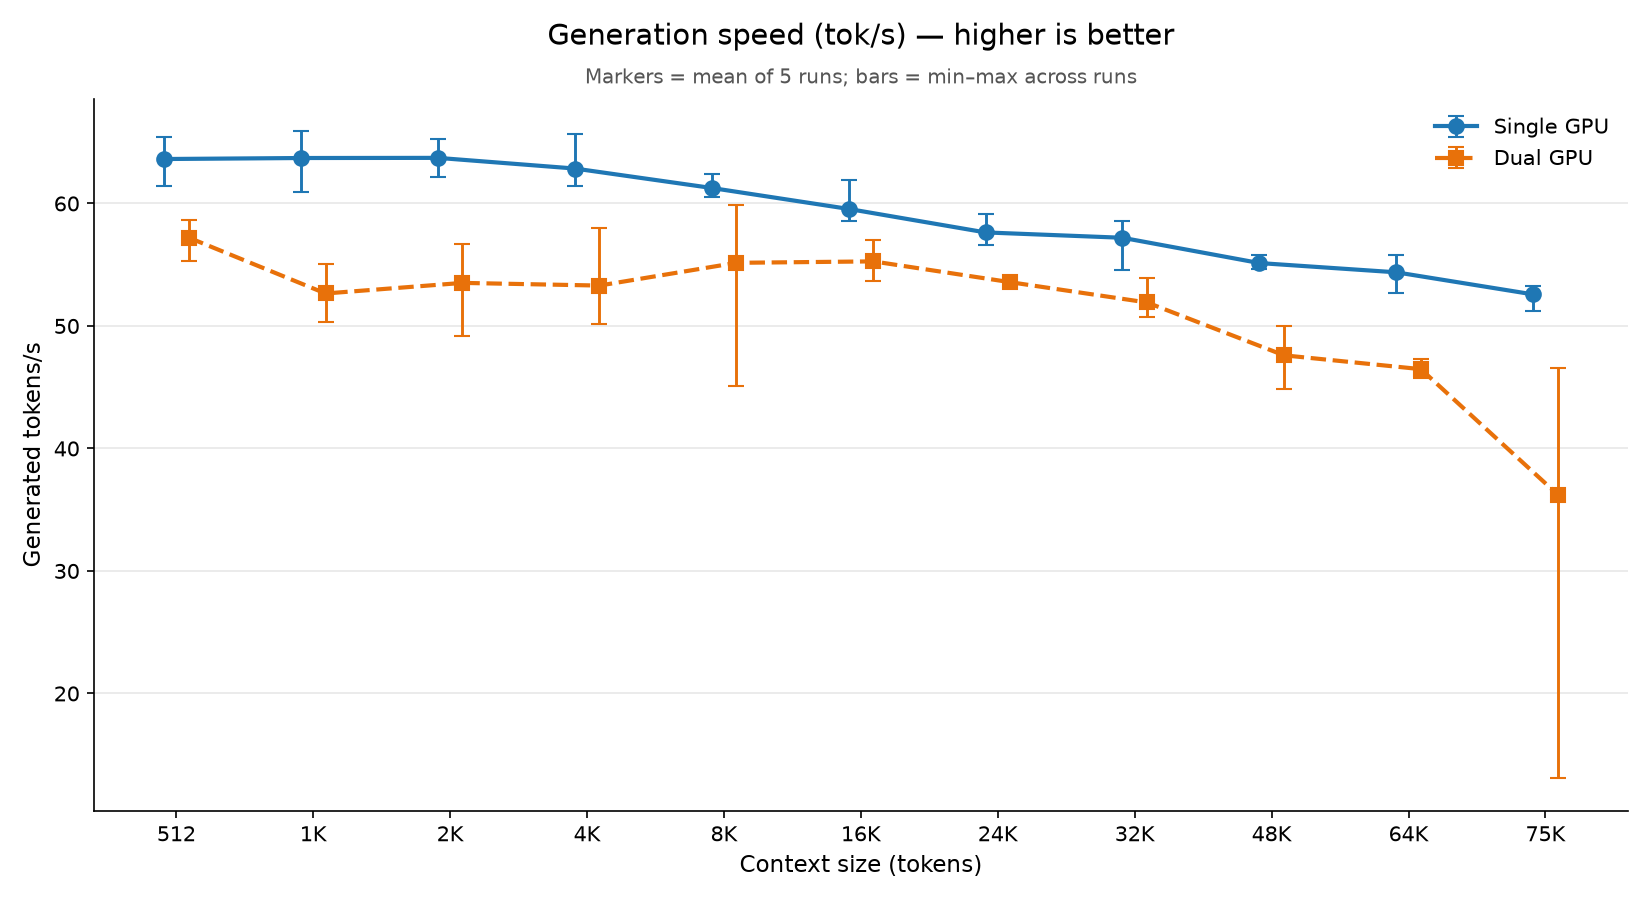
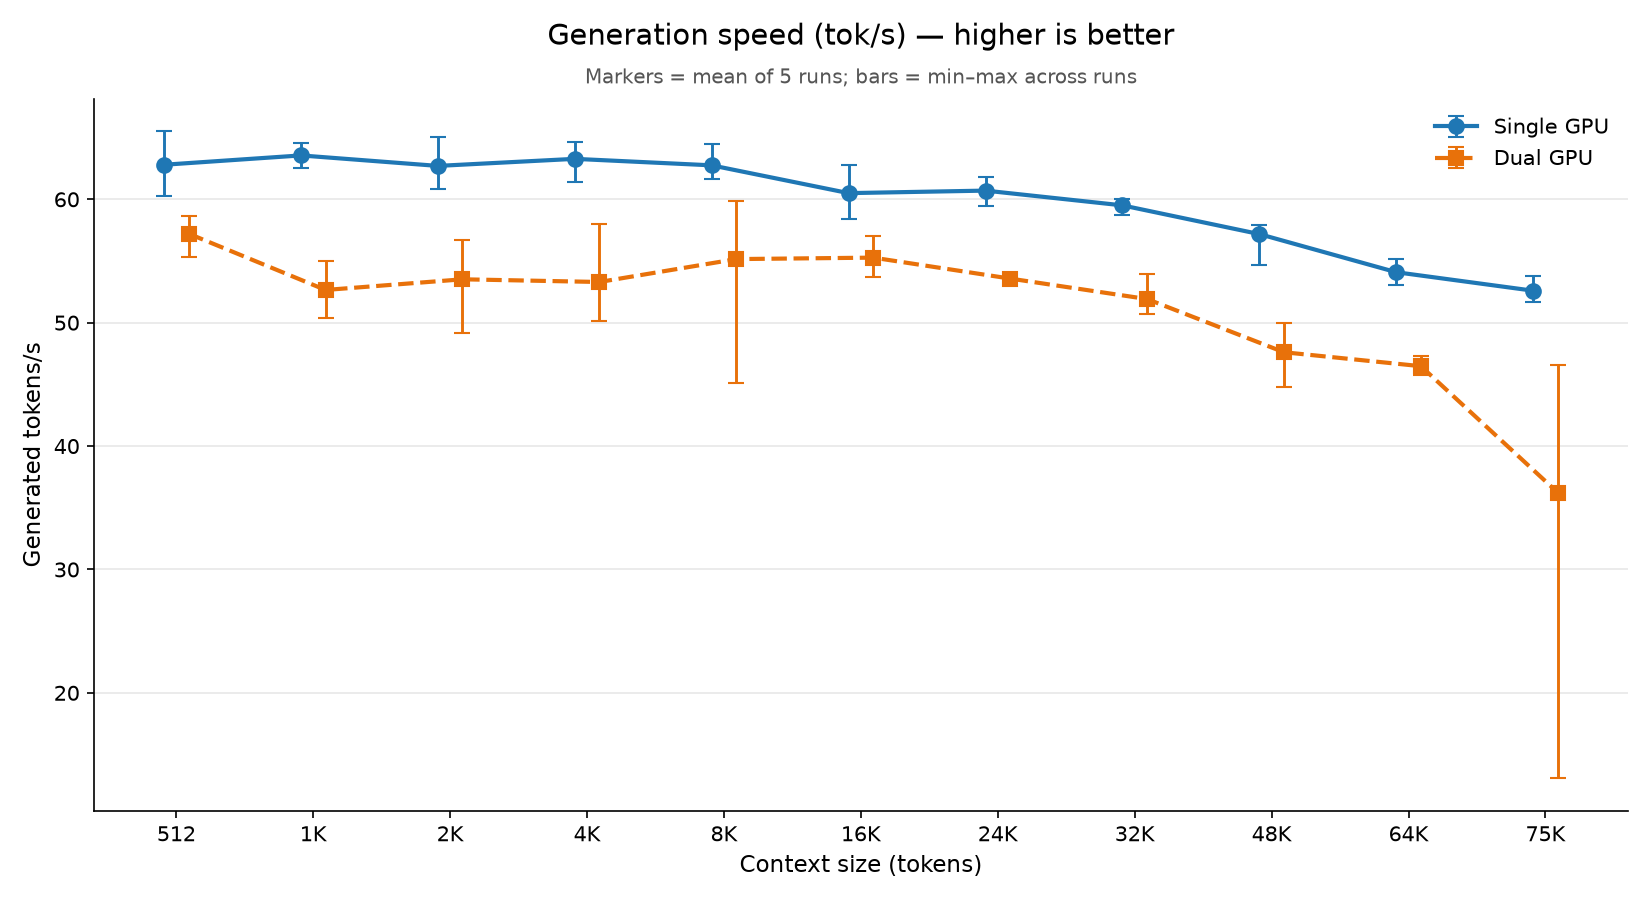
Update single benchmark: clean run, update table/findings/tips

diff --git a/README.md b/README.md
@@ -143,17 +143,17 @@ Single GPU is faster than dual-GPU over RPC at both prompt processing and genera
 
 | Context | Prompt tok/s single | dual | Change | Gen tok/s single | dual | Change |
 |---|---|---|---|---|---|---|
-| 512 | 1001 | 576 | −42% | 63.6 | 57.2 | −10% |
-| 1K | 1728 | 710 | −59% | 63.7 | 52.7 | −17% |
-| 2K | 2636 | 878 | −67% | 63.7 | 53.5 | −16% |
-| 4K | 2707 | 890 | −67% | 62.9 | 53.3 | −15% |
-| 8K | 2766 | 1064 | −62% | 61.3 | 55.2 | −10% |
-| 16K | 2728 | 975 | −64% | 59.6 | 55.3 | −7% |
-| 24K | 2611 | 905 | −65% | 57.6 | 53.6 | −7% |
-| 32K | 2554 | 813 | −68% | 57.2 | 51.9 | −9% |
-| 48K | 2439 | 638 | −74% | 55.1 | 47.6 | −14% |
-| 64K | 2356 | 598 | −75% | 54.4 | 46.5 | −15% |
-| 75K | 2305 | 445 | −81% | 52.6 | 36.2 | −31% |
+| 512 | 1037 | 576 | −44% | 62.8 | 57.2 | −9% |
+| 1K | 1705 | 710 | −58% | 63.6 | 52.7 | −17% |
+| 2K | 2638 | 878 | −67% | 62.7 | 53.5 | −15% |
+| 4K | 2783 | 890 | −68% | 63.3 | 53.3 | −16% |
+| 8K | 2920 | 1064 | −64% | 62.8 | 55.2 | −12% |
+| 16K | 2794 | 975 | −65% | 60.5 | 55.3 | −9% |
+| 24K | 2705 | 905 | −67% | 60.7 | 53.6 | −12% |
+| 32K | 2691 | 813 | −70% | 59.5 | 51.9 | −13% |
+| 48K | 2511 | 638 | −75% | 57.2 | 47.6 | −17% |
+| 64K | 2371 | 598 | −75% | 54.1 | 46.5 | −14% |
+| 75K | 2341 | 445 | −81% | 52.6 | 36.2 | −31% |
 
 ### Visual comparison
 
@@ -169,10 +169,10 @@ Markers show the mean of 5 runs; bars show the min–max range across runs.
 
 ### Key findings
 
-1. **Single GPU is faster at prompt processing at every context size.** Dual is 42% slower at 512 tokens, 59–68% slower from 1K to 32K, and 74–81% slower from 48K to 75K (about 2,300 tok/s single vs about 445 tok/s dual at 75K).
-2. **Single GPU is also faster at generation.** Dual is 7–17% slower from 512 to 64K and 31% slower at 75K, where one dual run fell to 13 tok/s (about 20% slower without that run).
-3. **Per-turn cost** (2,000 new prompt tokens + 1,000 generated) favours single by about 3.5–12 s: at 4K ≈ 16.6 s vs ≈ 21.0 s; at 16K ≈ 17.5 s vs ≈ 20.1 s; at 32K ≈ 18.3 s vs ≈ 21.7 s; at 48K ≈ 19.0 s vs ≈ 24.1 s; at 75K ≈ 19.9 s vs ≈ 32.1 s.
-4. **Cold prompt loads are 3–6× faster on single**: 16K ≈ 6 s vs ≈ 16 s; 48K ≈ 20 s vs ≈ 77 s; 75K ≈ 32 s vs ≈ 180 s.
+1. **Single GPU is faster at prompt processing at every context size.** Dual is 44% slower at 512 tokens, 58–70% slower from 1K to 32K, and 75–81% slower from 48K to 75K (about 2,340 tok/s single vs about 445 tok/s dual at 75K).
+2. **Single GPU is also faster at generation.** Dual is 9–17% slower from 512 to 64K and 31% slower at 75K, where one dual run fell to 13 tok/s (about 20% slower without that run).
+3. **Per-turn cost** (2,000 new prompt tokens + 1,000 generated) favours single by about 3–12 s: at 4K ≈ 16.5 s vs ≈ 21.0 s; at 16K ≈ 17.2 s vs ≈ 20.1 s; at 32K ≈ 17.5 s vs ≈ 21.7 s; at 48K ≈ 18.3 s vs ≈ 24.1 s; at 75K ≈ 19.9 s vs ≈ 32.1 s.
+4. **Cold prompt loads are 3–6× faster on single** at 16K and above: 16K ≈ 6 s vs ≈ 16 s; 48K ≈ 19 s vs ≈ 77 s; 75K ≈ 32 s vs ≈ 180 s.
 5. **Dual is mostly steady but has occasional slow runs**, mainly at 48K and 75K (for example one 75K run at 13 tok/s generation).
 
 ### Recommendation
@@ -234,6 +234,7 @@ The `compare` subcommand prints prompt and generation speeds per context size fo
 - Use `--runs 3` or more for steadier numbers.
 - Expect the first run after startup to be slower (cold model load).
 - Watch for speeds that decay run after run — this can indicate throttling or memory pressure.
+- Close other applications first (browsers, Discord, screen sharing, slicers and anything else that uses the GPU or VRAM). Background load can cut prompt-processing speed several-fold, because `--fit` sizes the model split to the VRAM that is actually free.
 
 ## Building from source
 
